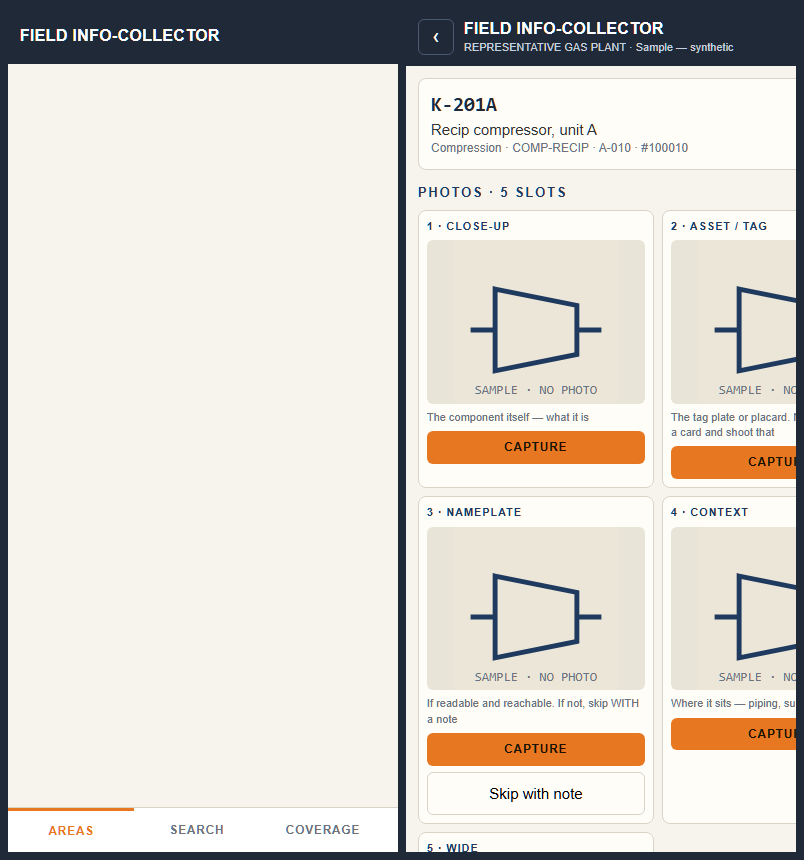
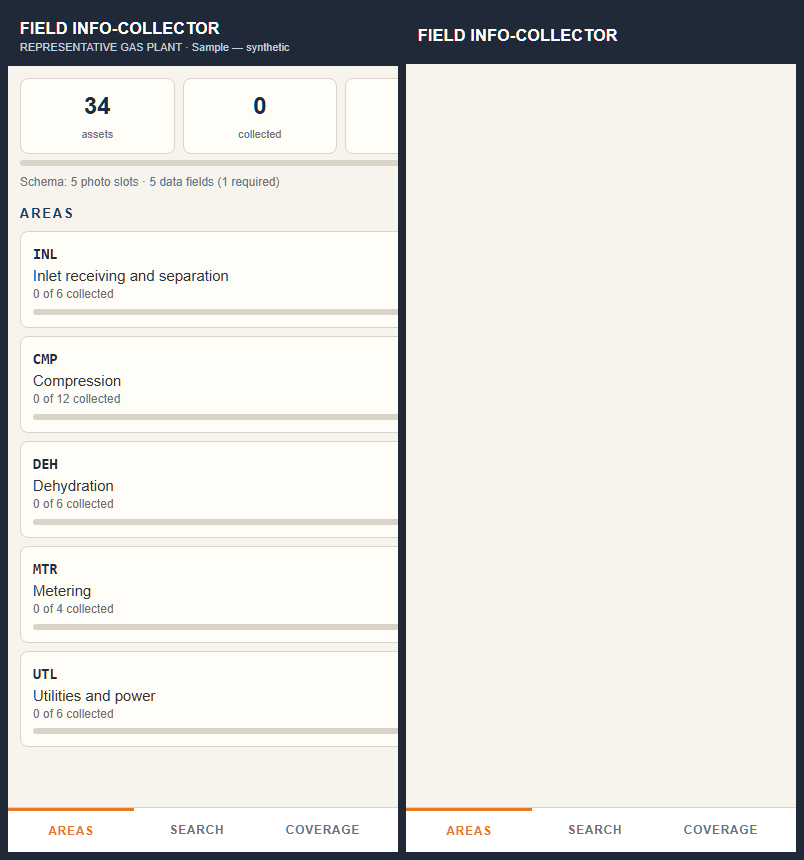
bulk status read; URL-hash deep links to assets; README screenshot

diff --git a/app.js b/app.js
@@ -93,9 +93,18 @@ let render = async function () {
   if (tab === "report") return renderReport();
   if (tab === "export") return renderExport();
 };
+/* one bulk read for the whole register instead of one read per asset per slot */
+const allEntries = () => new Promise((res) => {
+  const st = tx("readonly"); const ks = st.getAllKeys(); const vs = st.getAll();
+  vs.onsuccess = () => { const out = {}; ks.result.forEach((k, i) => (out[k] = vs.result[i])); res(out); };
+});
 async function statusMap() {
-  const m = {};
-  for (const a of reg.assets) m[a.id] = statusOf(await captures(a.id));
+  const all = await allEntries(), m = {};
+  for (const a of reg.assets) {
+    const c = { slots: {}, data: all[`${a.id}:data`] || {} };
+    for (const s of SLOTS()) c.slots[s.k] = all[`${a.id}:${s.k}`];
+    m[a.id] = statusOf(c);
+  }
   return m;
 }
 
